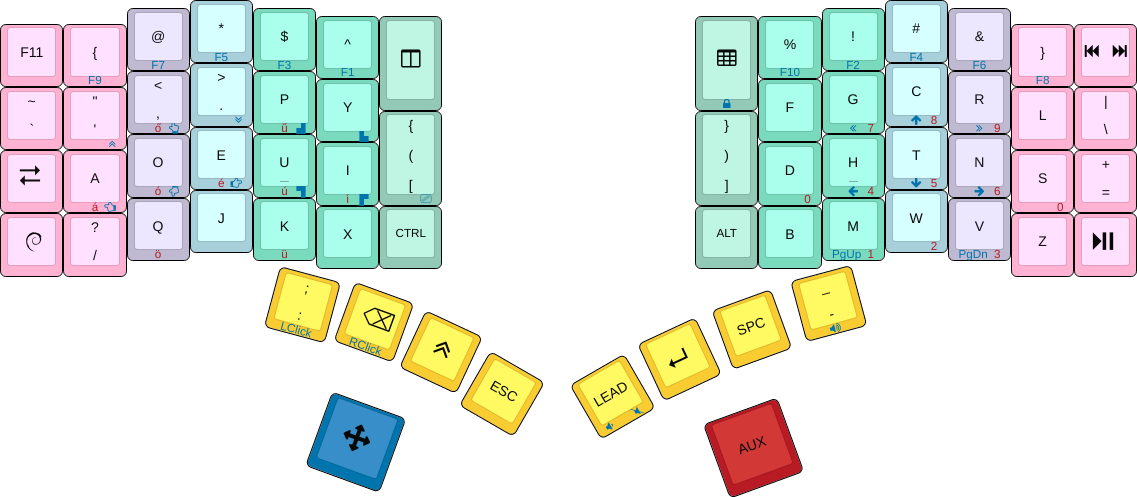
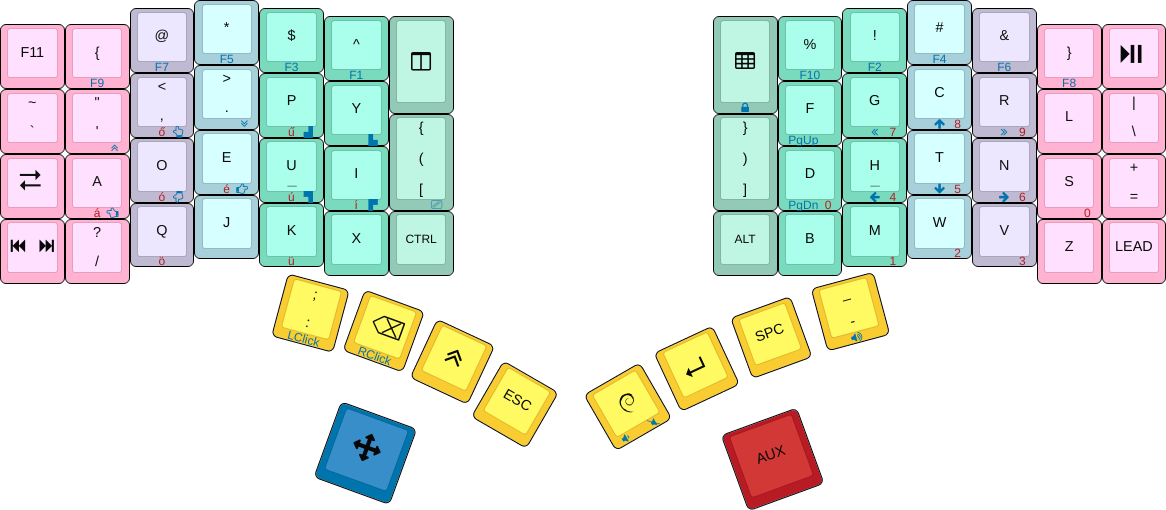
Move the GUI key onto the thumb arc
As I use the GUI key more often than the LEADER, move the former onto the thumb
cluster. Fixes #51.

diff --git a/src/keymap.h b/src/keymap.h
@@ -76,17 +76,17 @@ const Key keymaps[][ROWS][COLS] PROGMEM = {
     TD(F11)       ,Key_LCB   ,Key_AT    ,Key_STAR   ,Key_DOLLR ,Key_CARET ,TD(TMUX)
    ,Key_Backtick  ,Key_Quote ,Key_Comma ,Key_Period ,Key_P     ,Key_Y     ,TD(LPB)
    ,Key_Tab       ,Key_A     ,Key_O     ,Key_E      ,Key_U     ,Key_I
-   ,TD(GUI)       ,Key_Slash ,Key_Q     ,Key_J      ,Key_K     ,Key_X     ,OSM(LeftControl)
+   ,TD(MNP)       ,Key_Slash ,Key_Q     ,Key_J      ,Key_K     ,Key_X     ,OSM(LeftControl)
 
-   ,TD(COLON)  ,Key_Backspace ,OSM(LeftShift) ,Key_Escape
+   ,TD(COLON) ,Key_Backspace ,OSM(LeftShift) ,Key_Escape
    ,OSL(_NAV)
 
-   ,TD(TMUXP)    ,Key_PRCNT ,Key_EXCLM ,Key_HASH ,Key_AND ,Key_RCB ,TD(MNP)
+   ,TD(TMUXP)    ,Key_PRCNT ,Key_EXCLM ,Key_HASH ,Key_AND ,Key_RCB ,Key_PlayPause
    ,TD(RPB)      ,Key_F     ,Key_G     ,Key_C    ,Key_R   ,Key_L   ,Key_Backslash
                  ,Key_D     ,Key_H     ,Key_T    ,Key_N   ,Key_S   ,Key_Equals
-   ,OSM(LeftAlt) ,Key_B     ,Key_M     ,Key_W    ,Key_V   ,Key_Z   ,Key_PlayPause
+   ,OSM(LeftAlt) ,Key_B     ,Key_M     ,Key_W    ,Key_V   ,Key_Z   ,LEAD(MAIN)
 
-   ,LEAD(MAIN) ,Key_Enter ,Key_Spacebar ,Key_Minus
+   ,TD(GUI) ,Key_Enter ,Key_Spacebar ,Key_Minus
    ,OSL(_AUX)
   ),
 
@@ -95,17 +95,17 @@ const Key keymaps[][ROWS][COLS] PROGMEM = {
     TD(F11)       ,Key_LCB   ,Key_AT ,Key_STAR ,Key_DOLLR ,Key_CARET ,TD(TMUX)
    ,Key_Backslash ,Key_Quote ,Key_W  ,Key_C    ,Key_H     ,Key_F     ,TD(LPB)
    ,Key_Tab       ,Key_A     ,Key_O  ,Key_E    ,Key_I     ,Key_U
-   ,TD(GUI)       ,Key_Z     ,Key_Q  ,Key_X    ,Key_B     ,Key_Comma ,OSM(LeftControl)
+   ,TD(MNP)       ,Key_Z     ,Key_Q  ,Key_X    ,Key_B     ,Key_Comma ,OSM(LeftControl)
 
-   ,TD(COLON)  ,Key_Backspace ,OSM(LeftShift) ,Key_Escape
+   ,TD(COLON) ,Key_Backspace ,OSM(LeftShift) ,Key_Escape
    ,OSL(_NAV)
 
-   ,TD(TMUXP)    ,Key_PRCNT  ,Key_EXCLM ,Key_HASH ,Key_AND ,Key_RCB   ,TD(MNP)
+   ,TD(TMUXP)    ,Key_PRCNT  ,Key_EXCLM ,Key_HASH ,Key_AND ,Key_RCB   ,Key_PlayPause
    ,TD(RPB)      ,Key_M      ,Key_G     ,Key_L    ,Key_P   ,Key_Slash ,Key_Backslash
                  ,Key_D      ,Key_R     ,Key_T    ,Key_N   ,Key_S     ,Key_Equals
-   ,OSM(LeftAlt) ,Key_Period ,Key_K     ,Key_V    ,Key_Y   ,Key_J     ,Key_PlayPause
+   ,OSM(LeftAlt) ,Key_Period ,Key_K     ,Key_V    ,Key_Y   ,Key_J     ,LEAD(MAIN)
 
-   ,LEAD(MAIN) ,Key_Enter ,Key_Spacebar ,Key_Minus
+   ,TD(GUI) ,Key_Enter ,Key_Spacebar ,Key_Minus
    ,OSL(_AUX)
   ),
 

diff --git a/README.md b/README.md
@@ -56,7 +56,7 @@ This is a [Dvorak][dvorak]-inspired layout, with some changes here and there, to
   - `LEAD LEAD` switches to the next LED mode.
   - `LEAD BUTTERFLY` (where `BUTTERFLY` is the `R2C9` key) does an `M-x butterfly RET y`, in honor of [xkcd#378](https://xkcd.com/378/).
 * The `R0C7` key is also a [tap-dance][kaleidoscope:tap-dance] key, which inputs `:` on a single tap, `;` otherwise.
-* The `R3C0` key (another [tap-dance][kaleidoscope:tap-dance] key) acts as a `GUI` key when tapped once. When tapped twice, it switches to a special `APPSEL` layer, where the number row on the left half can be used to select an application to switch to. This needs a helper program on the host side.
+* The `GUI` key (another [tap-dance][kaleidoscope:tap-dance] key) acts as a `GUI` key when tapped once. When tapped twice, it switches to a special `APPSEL` layer, where the number row on the left half can be used to select an application to switch to. This needs a helper program on the host side.
 * The `R0C0` key acts as `F11` on a single tap, and if tapped more than one time, does nothing. This is so that it can be double tapped and held to go into programmable mode when re-flashing.
 * There are a few other actions one can trigger with [magic combos][kaleidoscope:magic-combos]:
   - `PALMS + ADORE`: Switch to the [ADORE](#adore-layer) layer.
